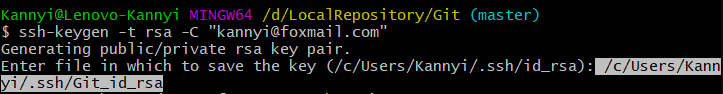
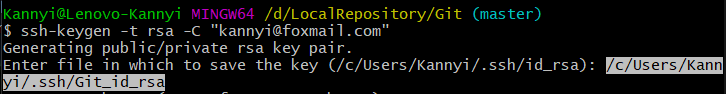
Update

diff --git a/README.md b/README.md
@@ -26,8 +26,7 @@ cd D:/LocalRepository/Git #使用命令时必须处于该仓库的路径下！
 git remote #验证远程仓库是否添加成功
 ssh-keygen -t rsa -C "kannyi@foxmail.com"
 
-#操作：一般除了保存key的文件名需要自己设置外，剩下的操作只需要一直回车即可，此处我设置为
-/c/Users/Kannyi/.ssh/Git_id_rsa
+#操作：一般除了保存key的文件名需要自己设置外，剩下的操作只需要一直回车即可，我设置的文件名见下图
 
 cd /c/Users/kannyi/.ssh
 ls
@@ -82,7 +81,7 @@ git remote add Go-000 git@github.com:MyKannyi/Go-000.git
 git remote #验证远程仓库是否添加成功
 ssh-keygen -t rsa -C "kannyi@foxmail.com"
 
-#操作：一般除了保存key的文件名需要自己设置外，剩下的操作只需要一直回车即可，此处我设置为/c/Users/Kannyi/.ssh/Go-000_id_rsa
+#操作：一般除了保存key的文件名需要自己设置外，剩下的操作只需要一直回车即可，我设置的文件名见下图
 
 cd /c/Users/kannyi/.ssh
 ls
@@ -109,6 +108,18 @@ cat Go-000_id_rsa.pub #查看公钥里面有什么内容
 
 ```
 ssh -T git@github.com #测试一下本地和远程的GitHub是否能成功建立连接
+```
+
+
+
+## 将本地库上传到远程库
+
+```
+cd D:/LocalRepository/Git
+git status #查看是否有新东西要提交
+git add .
+git commit -m "Update"
+git push -u Git master
 ```
 
 
